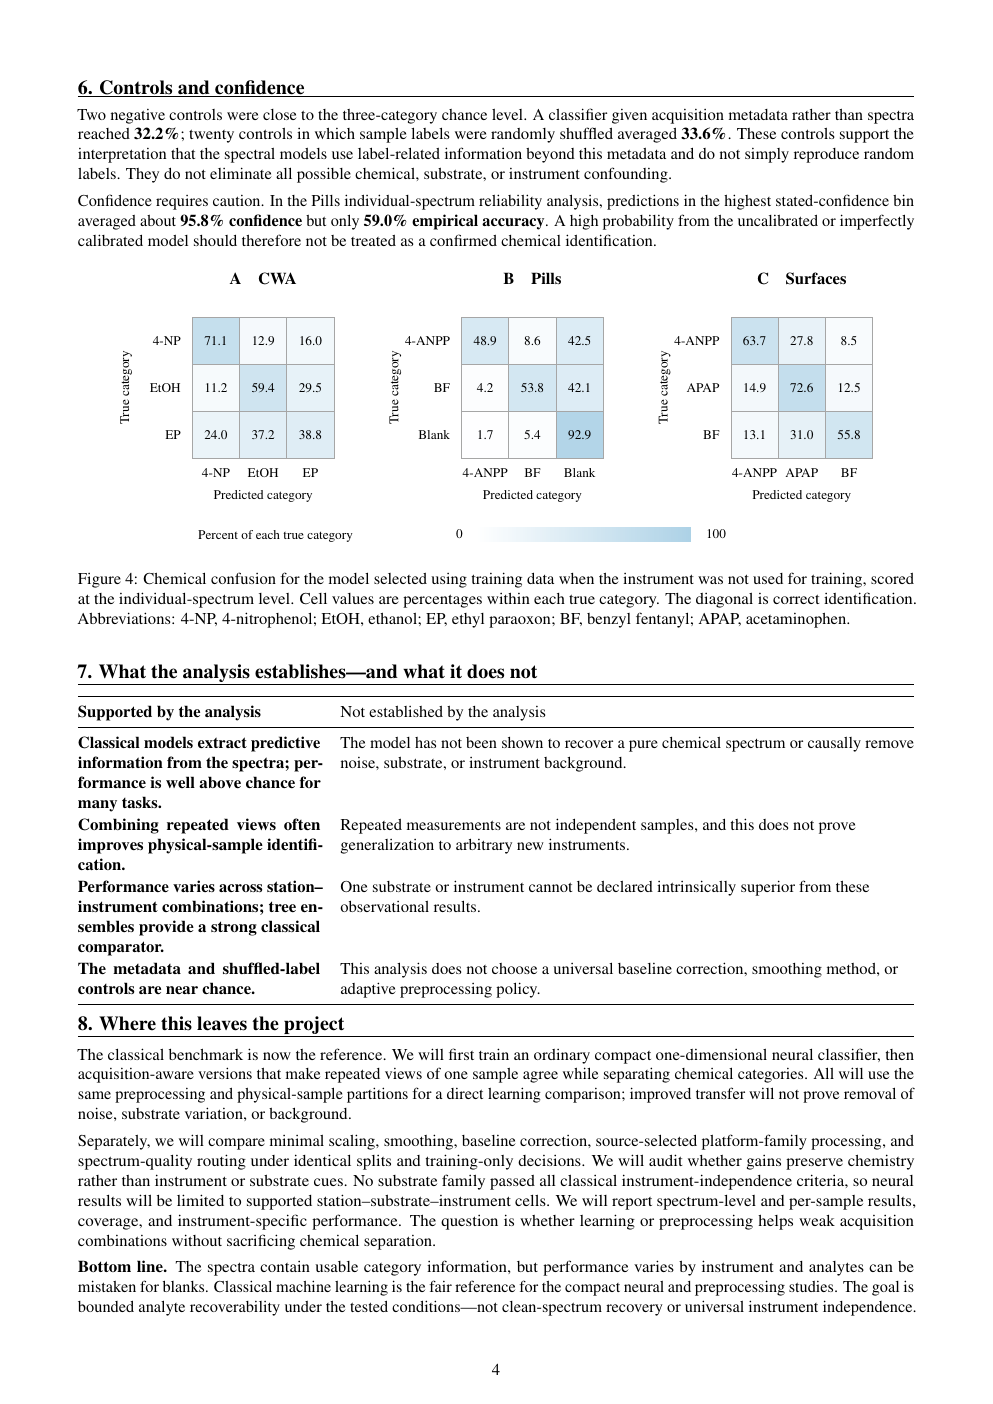
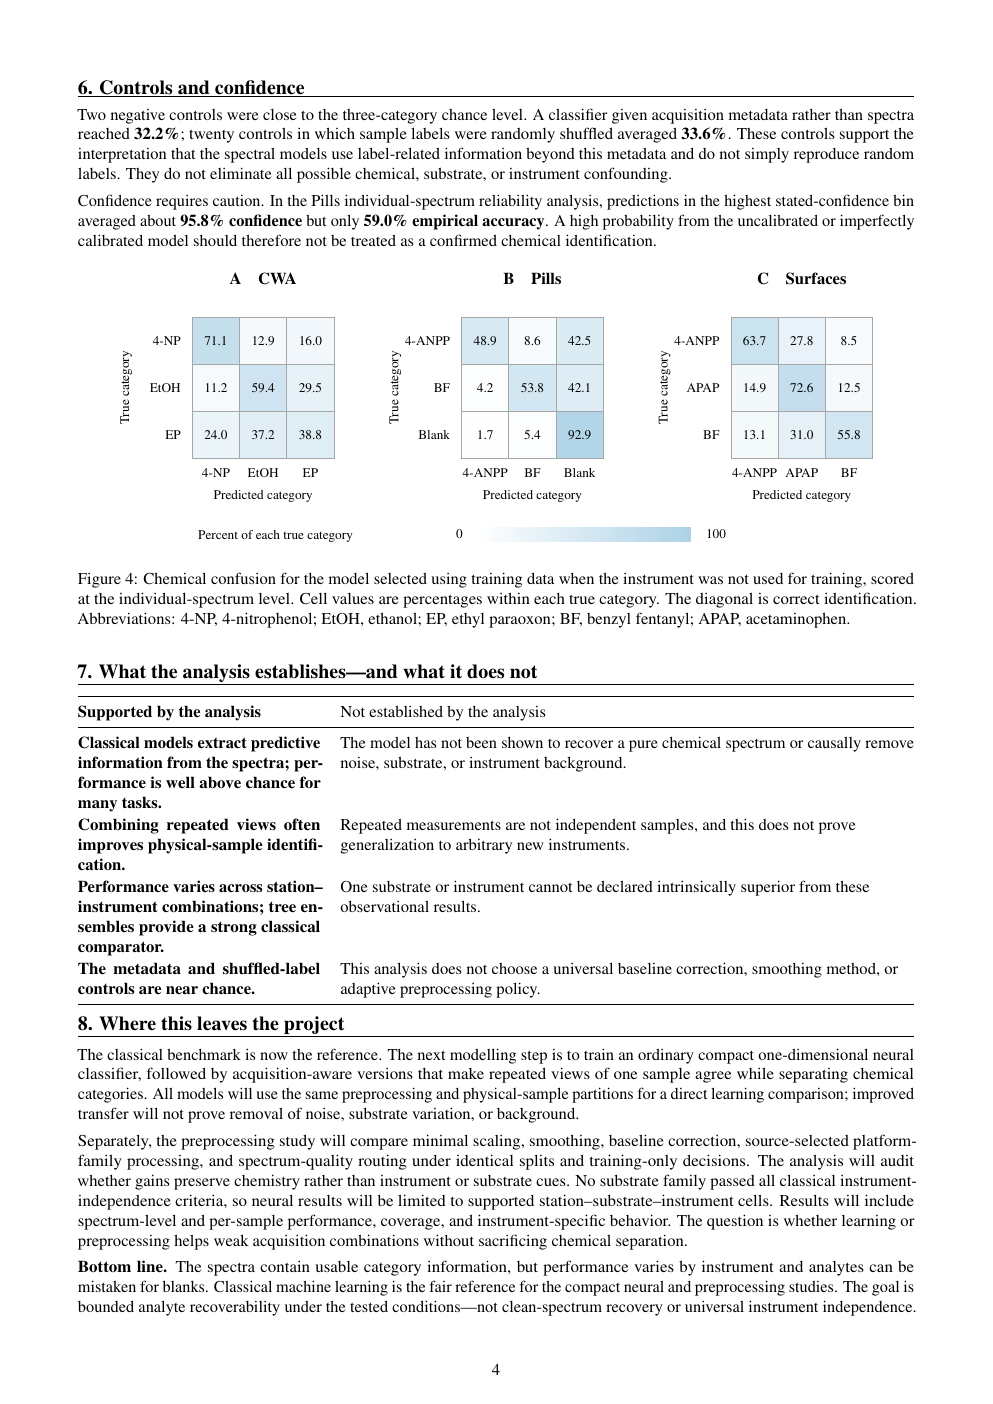
Refine future work wording in supervisor brief

Changed region(s): [[0.0624, 0.735, 0.9366, 0.8882]]

diff --git a/Projects/SERS_Classification/research/atlas_sers/reports/NATO_SERS_BRIEF_REPORT.tex b/Projects/SERS_Classification/research/atlas_sers/reports/NATO_SERS_BRIEF_REPORT.tex
@@ -173,9 +173,9 @@ The metadata and shuffled-label controls are near chance. & This analysis does n
 \end{tabularx}
 
 \sectiontitle{8. Where this leaves the project}
-The classical benchmark is now the reference. We will first train an ordinary compact one-dimensional neural classifier, then acquisition-aware versions that make repeated views of one sample agree while separating chemical categories. All will use the same preprocessing and physical-sample partitions for a direct learning comparison; improved transfer will not prove removal of noise, substrate variation, or background.
+The classical benchmark is now the reference. The next modelling step is to train an ordinary compact one-dimensional neural classifier, followed by acquisition-aware versions that make repeated views of one sample agree while separating chemical categories. All models will use the same preprocessing and physical-sample partitions for a direct learning comparison; improved transfer will not prove removal of noise, substrate variation, or background.
 
-Separately, we will compare minimal scaling, smoothing, baseline correction, source-selected platform-family processing, and spectrum-quality routing under identical splits and training-only decisions. We will audit whether gains preserve chemistry rather than instrument or substrate cues. No substrate family passed all classical instrument-independence criteria, so neural results will be limited to supported station--substrate--instrument cells. We will report spectrum-level and per-sample results, coverage, and instrument-specific performance. The question is whether learning or preprocessing helps weak acquisition combinations without sacrificing chemical separation.
+Separately, the preprocessing study will compare minimal scaling, smoothing, baseline correction, source-selected platform-family processing, and spectrum-quality routing under identical splits and training-only decisions. The analysis will audit whether gains preserve chemistry rather than instrument or substrate cues. No substrate family passed all classical instrument-independence criteria, so neural results will be limited to supported station--substrate--instrument cells. Results will include spectrum-level and per-sample performance, coverage, and instrument-specific behavior. The question is whether learning or preprocessing helps weak acquisition combinations without sacrificing chemical separation.
 
 \textbf{Bottom line.} The spectra contain usable category information, but performance varies by instrument and analytes can be mistaken for blanks. Classical machine learning is the fair reference for the compact neural and preprocessing studies. The goal is bounded analyte recoverability under the tested conditions---not clean-spectrum recovery or universal instrument independence.
 
